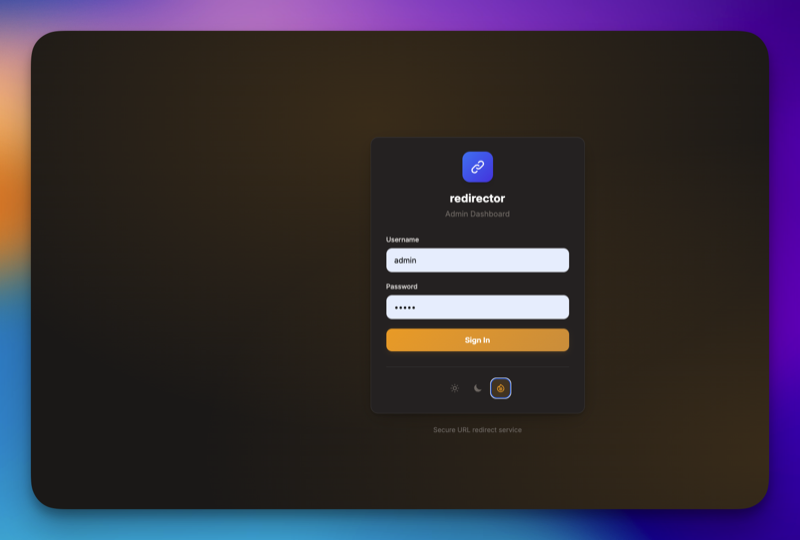
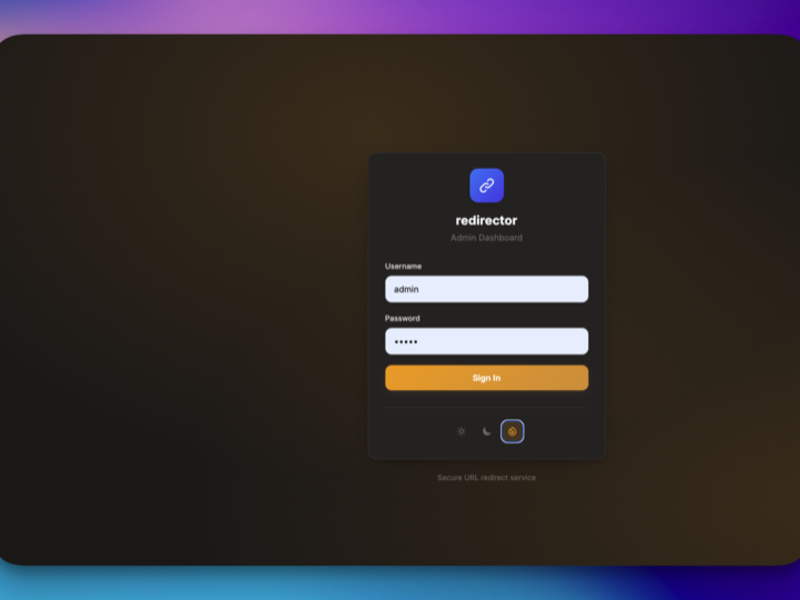
feat: add CHANGELOG, Docker workflow, pre-commit hooks, resize screenshots

diff --git a/src/error.rs b/src/error.rs
@@ -14,7 +14,8 @@ static NOT_FOUND_HTML: &str = include_str!("../templates/not_found.html");
 static NOT_FOUND_MINIFIED: LazyLock<String> = LazyLock::new(|| {
     use minify_html::{minify, Cfg};
     let cfg = Cfg::spec_compliant();
-    String::from_utf8(minify(NOT_FOUND_HTML.as_bytes(), &cfg)).unwrap_or_else(|_| NOT_FOUND_HTML.to_string())
+    String::from_utf8(minify(NOT_FOUND_HTML.as_bytes(), &cfg))
+        .unwrap_or_else(|_| NOT_FOUND_HTML.to_string())
 });
 
 #[derive(Error, Debug)]
@@ -46,7 +47,10 @@ fn not_found_page() -> Html<String> {
     {
         match std::fs::read_to_string("templates/not_found.html") {
             Ok(content) => Html(content),
-            Err(e) => Html(format!("<h1>404 - Not Found</h1><p>Error loading template: {}</p>", e)),
+            Err(e) => Html(format!(
+                "<h1>404 - Not Found</h1><p>Error loading template: {}</p>",
+                e
+            )),
         }
     }
     #[cfg(not(debug_assertions))]
@@ -72,7 +76,7 @@ impl IntoResponse for AppError {
             AppError::NotFound | AppError::InvalidHashid => {
                 (status, not_found_page()).into_response()
             }
-            _ => (status, self.to_string()).into_response()
+            _ => (status, self.to_string()).into_response(),
         }
     }
 }

diff --git a/src/admin/pages_test.rs b/src/admin/pages_test.rs
@@ -12,7 +12,10 @@ mod tests {
     fn test_login_template_contains_form() {
         let content = fs::read_to_string("templates/login.html").unwrap();
 
-        assert!(content.contains("<form"), "login.html should contain a form");
+        assert!(
+            content.contains("<form"),
+            "login.html should contain a form"
+        );
         assert!(
             content.contains("action=\"/admin/login\""),
             "login.html should submit to /admin/login"
@@ -66,10 +69,7 @@ mod tests {
     #[test]
     fn test_dashboard_template_exists() {
         let content = fs::read_to_string("templates/dashboard.html");
-        assert!(
-            content.is_ok(),
-            "dashboard.html should exist in templates/"
-        );
+        assert!(content.is_ok(), "dashboard.html should exist in templates/");
     }
 
     #[test]

diff --git a/src/metrics.rs b/src/metrics.rs
@@ -84,14 +84,22 @@ pub fn get_cache_hit_rate() -> f64 {
     let hits = CACHE_HITS.load(Ordering::Relaxed) as f64;
     let misses = CACHE_MISSES.load(Ordering::Relaxed) as f64;
     let total = hits + misses;
-    if total > 0.0 { hits / total } else { 0.0 }
+    if total > 0.0 {
+        hits / total
+    } else {
+        0.0
+    }
 }
 
 /// Get average latency in ms
 pub fn get_avg_latency_ms() -> f64 {
     let sum = LATENCY_SUM_MICROS.load(Ordering::Relaxed) as f64;
     let count = LATENCY_COUNT.load(Ordering::Relaxed) as f64;
-    if count > 0.0 { sum / count / 1000.0 } else { 0.0 }
+    if count > 0.0 {
+        sum / count / 1000.0
+    } else {
+        0.0
+    }
 }
 
 /// Record a recent redirect

diff --git a/src/admin/mod.rs b/src/admin/mod.rs
@@ -50,7 +50,10 @@ async fn simulate_handler() -> StatusCode {
 pub fn admin_routes(admin_state: AdminState) -> Router {
     let protected = Router::new()
         .route("/dashboard", get(dashboard_page))
-        .route("/dashboard/", get(|| async { Redirect::permanent("/admin/dashboard") }))
+        .route(
+            "/dashboard/",
+            get(|| async { Redirect::permanent("/admin/dashboard") }),
+        )
         .route("/events", get(events_handler))
         .route("/simulate", post(simulate_handler))
         .route_layer(middleware::from_fn_with_state(

diff --git a/src/admin/simulation.rs b/src/admin/simulation.rs
@@ -65,7 +65,10 @@ fn load_simulation_data(path: &str) -> Result<Vec<SimulationEntry>, std::io::Err
         entries.push(SimulationEntry { id, hashid, url });
     }
 
-    tracing::info!("Loaded {} simulation entries from binary file", entries.len());
+    tracing::info!(
+        "Loaded {} simulation entries from binary file",
+        entries.len()
+    );
     Ok(entries)
 }
 

diff --git a/src/main.rs b/src/main.rs
@@ -1,4 +1,6 @@
-use axum::{extract::Extension, middleware as axum_middleware, response::Redirect, routing::get, Router};
+use axum::{
+    extract::Extension, middleware as axum_middleware, response::Redirect, routing::get, Router,
+};
 use metrics_exporter_prometheus::PrometheusBuilder;
 use redirector::{
     admin::{admin_routes, AdminState},

diff --git a/tools/gen_simulation_data.rs b/tools/gen_simulation_data.rs
@@ -22,7 +22,7 @@ fn main() {
     // First pass: count entries
     let entries: Vec<_> = reader
         .lines()
-        .filter_map(|line| line.ok())
+        .map_while(Result::ok)
         .filter(|line| !line.is_empty())
         .filter_map(|line| {
             let parts: Vec<&str> = line.splitn(2, '|').collect();

diff --git a/CHANGELOG.md b/CHANGELOG.md
@@ -1,0 +1,50 @@
+# Changelog
+
+All notable changes to this project will be documented in this file.
+
+The format is based on [Keep a Changelog](https://keepachangelog.com/en/1.1.0/),
+and this project adheres to [Semantic Versioning](https://semver.org/spec/v2.0.0.html).
+
+## [Unreleased]
+
+### Added
+- **Admin Dashboard** - Real-time monitoring with SSE-based live updates
+  - RPS and latency charts using Chart.js
+  - System metrics (CPU, memory, uptime)
+  - Cache hit rate monitoring
+  - Recent redirects list
+  - Load simulation for testing (configurable RPS)
+- **Three color themes** - Light, Dark, and Warm themes with CSS variables
+- **Beautiful 404 page** - Themed "Link Not Found" page
+- **Password hashing utility** - `cargo run --bin hash_password`
+- **Session-based authentication** - Argon2 password hashing with configurable TTL
+- **Screenshots** - Documentation screenshots for all themes
+- **SEO improvements** - Keywords and meta tags in README
+
+### Changed
+- Templates moved to `templates/` directory for hot-reload in development
+- HTML minification enabled in release builds
+- Updated all 18 README translations with Admin Dashboard section
+
+### Security
+- All admin routes protected by session authentication
+- SSE endpoint `/admin/events` requires authentication
+- Secure cookie handling with configurable session TTL
+
+## [0.1.0] - 2025-01-15
+
+### Added
+- Initial release
+- Hashid-based URL shortening
+- Redis caching with configurable TTL
+- PostgreSQL storage backend
+- Circuit breaker for database protection
+- Rate limiting (global and database-level)
+- Prometheus metrics with Basic Auth
+- Interstitial pages with countdown
+- Multiple hashid salt support for migration
+- Health check endpoint
+- Docker and Docker Compose support
+
+[Unreleased]: https://github.com/brilliant-almazov/redirector/compare/v0.1.0...HEAD
+[0.1.0]: https://github.com/brilliant-almazov/redirector/releases/tag/v0.1.0
